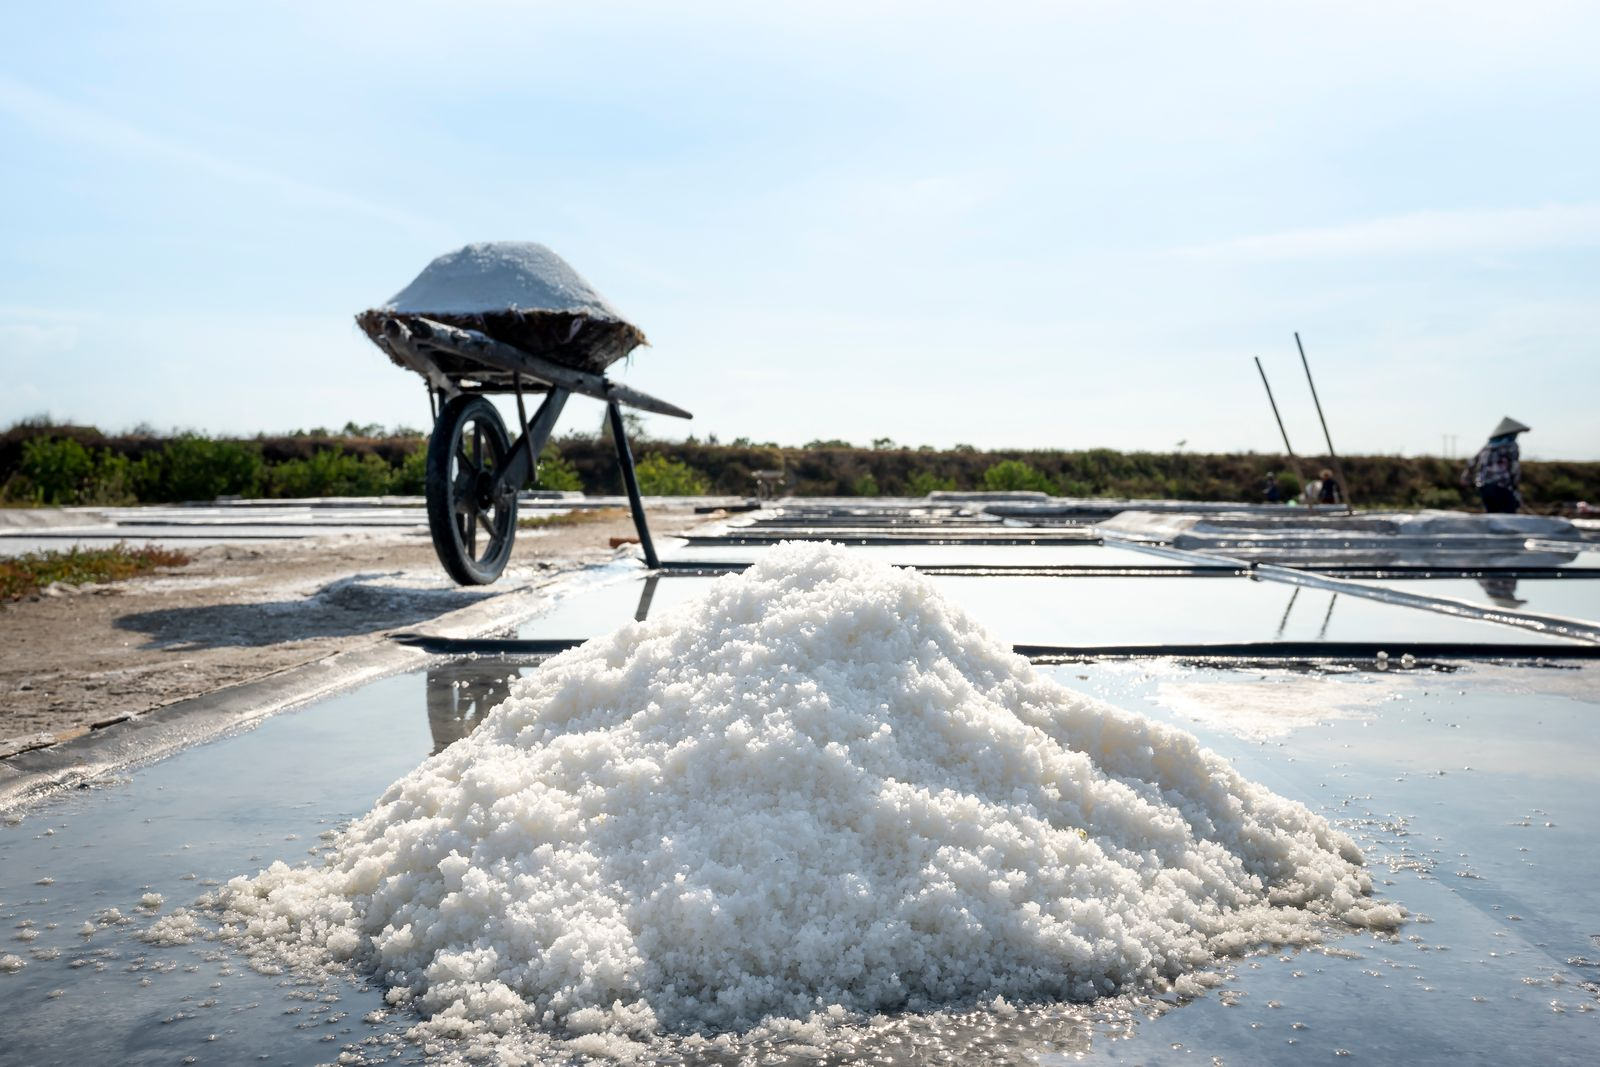
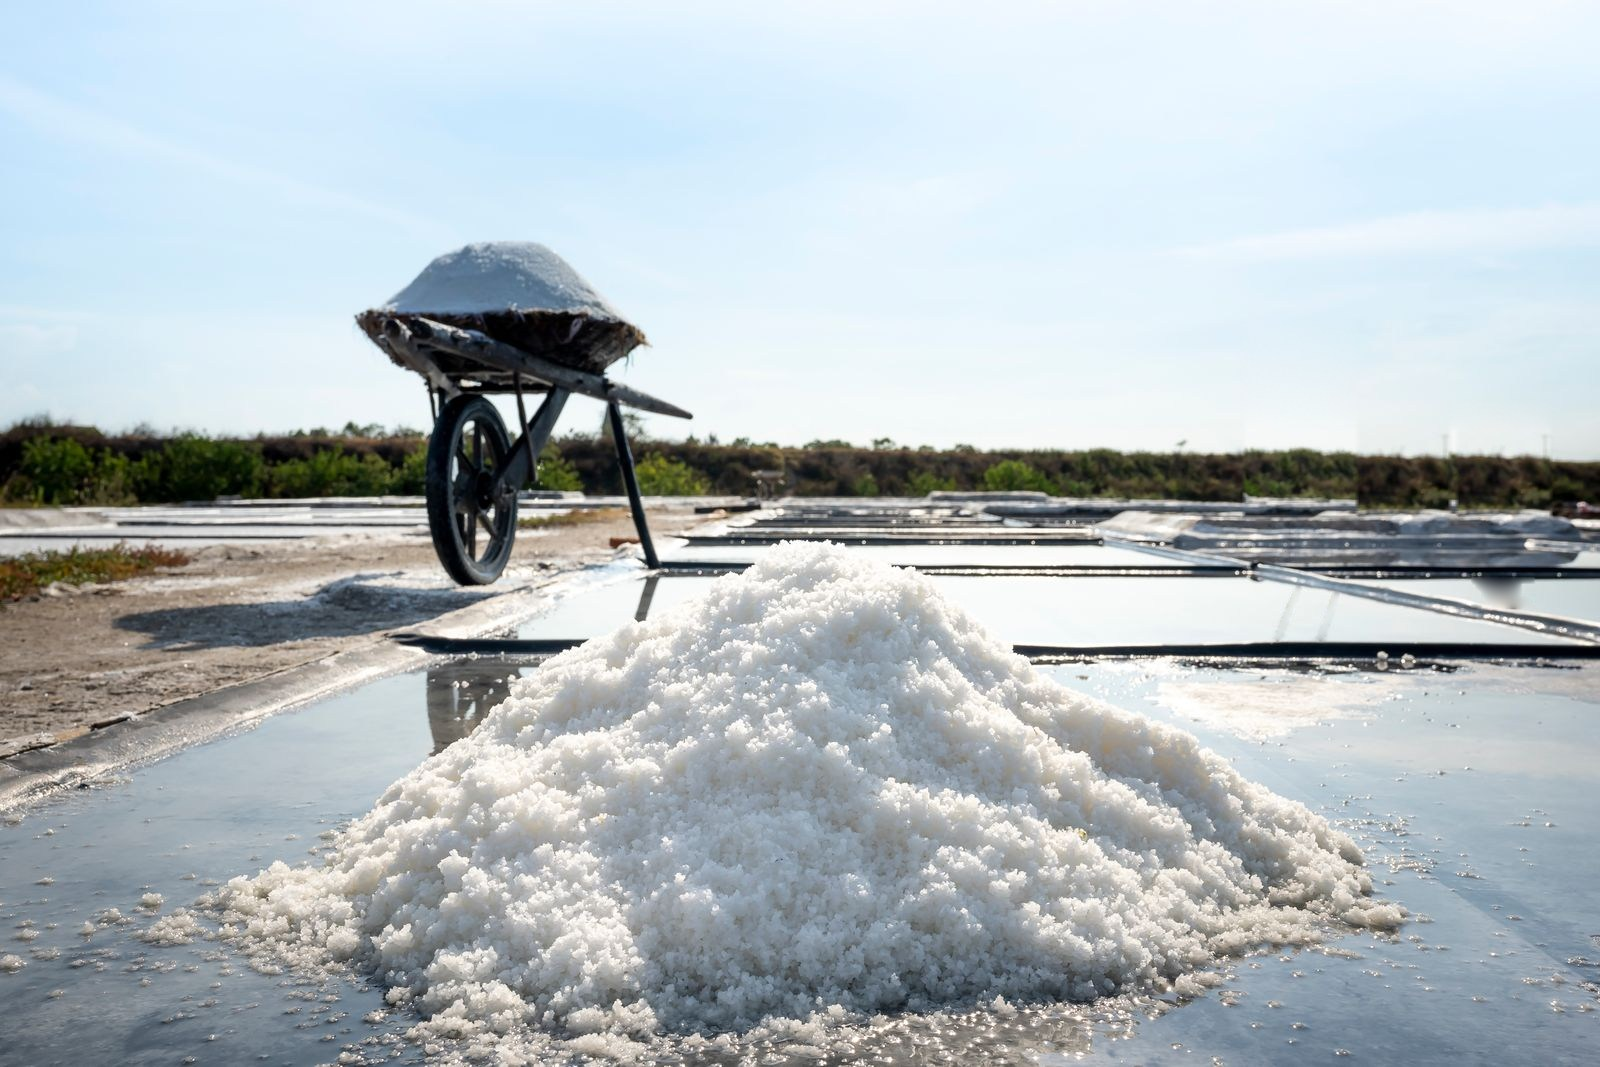
Remove tablet tags; remove people from sea salt photo

Changed region(s): [[0.7812, 0.3402, 0.875, 0.4948], [0.9062, 0.3711, 0.9688, 0.4948], [0.9062, 0.5258, 0.9688, 0.5876]]

diff --git a/index.html b/index.html
@@ -599,11 +599,6 @@
             <div class="card__body">
               <h3>Water Softener Tablet Salt</h3>
               <p>For water softeners and treatment, swimming-pool salt chlorinators, and cleaning.</p>
-              <ul class="tags">
-                <li>25 mm × 14 mm</li>
-                <li>11 g</li>
-                <li>99–99.8% NaCl</li>
-              </ul>
               <button class="text-link" type="button" data-quote="Water Softener Tablet Salt">Request a quote <svg><use href="#i-arrow"/></svg></button>
             </div>
           </article>
